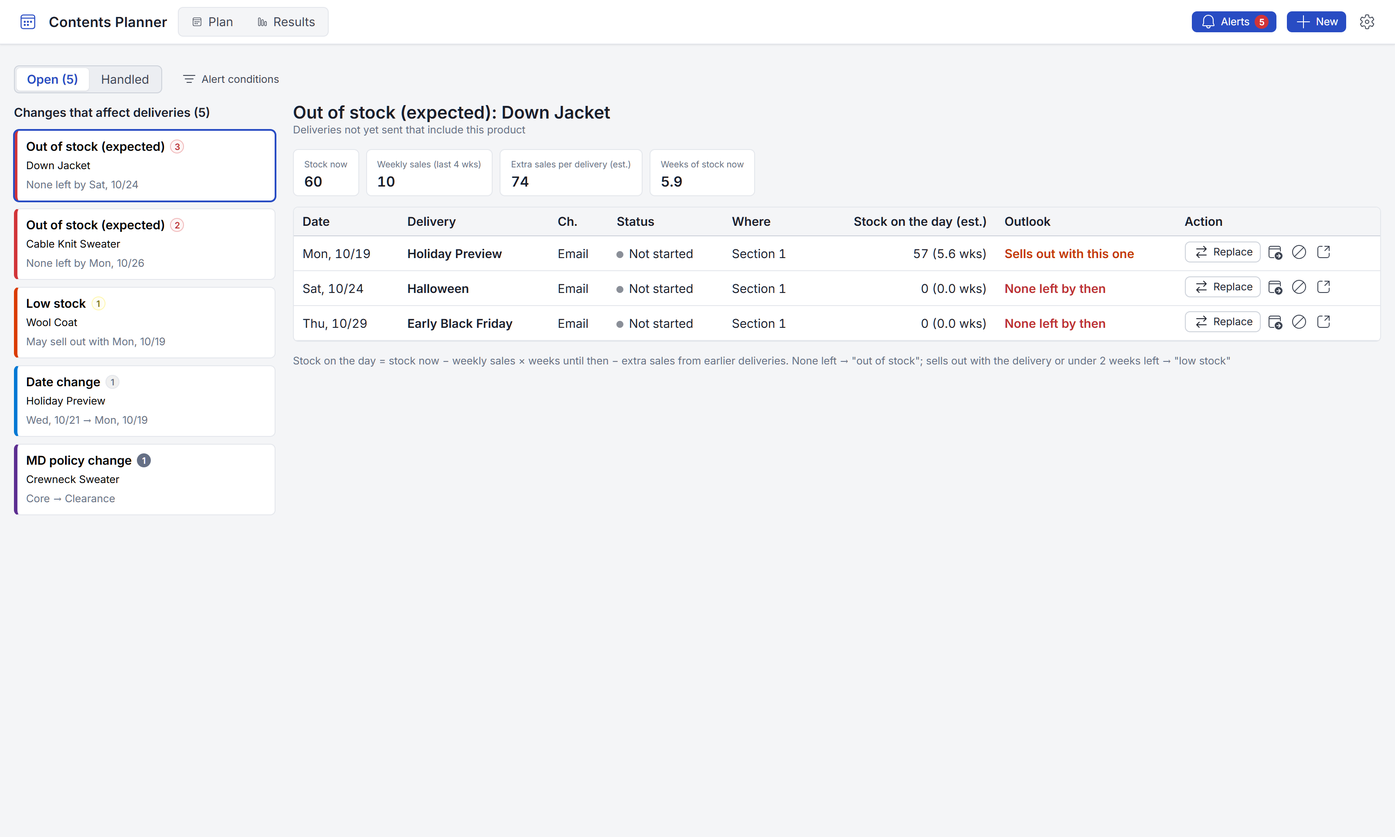
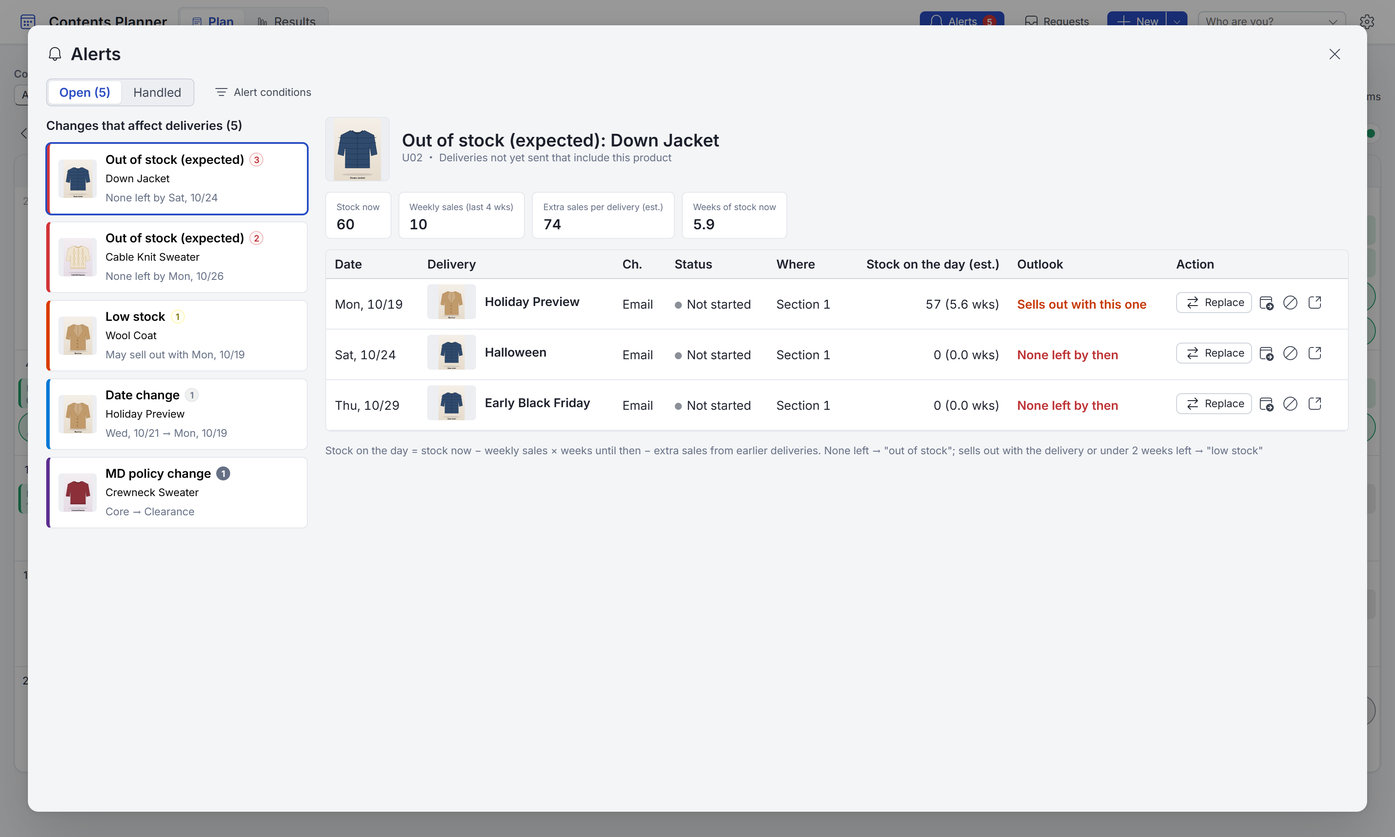
feat: アラートに商品の画像・配信のサムネイル・いまの在庫を足し、アラートを面からフロートに
- 左の一覧と右の見出しに商品の画像(見出しには商品コード)。日程の変更は配信の画像
- 影響を受ける配信の表に、サムネイル(マウスを重ねるとプレビュー。計画の一覧と同じ DeliveryThumb)
- 差し替えの候補に「いまの在庫」を足し、差し替える商品といまの在庫を上に出す。載せた回数の行を短く
- アラートを、ヘッダーから開くフロートに(src/AlertsFloat.tsx)。閉じれば見ていた画面のまま。開いた配信カードは上に重なる
- 撮影の手順を合わせる(差し替えのパネルの閉じ方、フロートの閉じ方)。FEATURES・FLOWS・BACKLOG(X21)を更新

diff --git a/src/AlertsPage.tsx b/src/AlertsPage.tsx
@@ -2,6 +2,9 @@ import { useState } from 'react'
 import { Badge, Button, MessageBar, MessageBarBody, Tooltip, makeStyles, mergeClasses, tokens } from '@fluentui/react-components'
 import { ArrowSwapRegular, CalendarArrowRightRegular, FilterRegular, OpenRegular, ProhibitedRegular } from '@fluentui/react-icons'
 import type { Product } from './models/products'
+import type { HeroImage } from './models/heroImages'
+import { DeliveryThumb } from './DataTable'
+import { heroImage, productImage } from './images'
 import type { WeekRow } from './data/weeks'
 import { AlertActionPanel } from './AlertActionPanel'
 import { LOW_STOCK_WEEKS, isLeadStage, type AffectedDelivery, type ChangeAlert, type Placement, type StockAlert, type StockModel } from './alerts'
@@ -22,7 +25,7 @@ const useStyles = makeStyles({
   tdWrap: { padding: '6px 10px', borderBottom: `1px solid ${tokens.colorNeutralStroke2}`, whiteSpace: 'normal', overflowWrap: 'anywhere', minWidth: '200px' },
   root: { display: 'grid', gridTemplateColumns: '300px minmax(0, 1fr)', columnGap: '20px', alignItems: 'start' },
   // 左: アラートの一覧
-  list: { display: 'grid', rowGap: '8px', position: 'sticky', top: '72px' },
+  list: { display: 'grid', rowGap: '8px', position: 'sticky', top: 0 },
   listHead: { fontSize: tokens.fontSizeBase300, fontWeight: tokens.fontWeightSemibold, marginBottom: '2px' },
   item: {
     display: 'grid',
@@ -38,6 +41,16 @@ const useStyles = makeStyles({
     ':hover': { backgroundColor: tokens.colorNeutralBackground1Hover },
   },
   itemOn: { outline: `2px solid ${tokens.colorBrandStroke1}`, outlineOffset: '-1px' },
+  // 一覧の項目: 左に商品(日程の変更は配信)の画像、右に文字
+  itemRow: { display: 'grid', gridTemplateColumns: '44px minmax(0, 1fr)', columnGap: '10px', alignItems: 'center' },
+  itemText: { display: 'grid', rowGap: '2px', minWidth: 0 },
+  itemImg: { width: '44px', height: '44px', objectFit: 'contain', borderRadius: tokens.borderRadiusSmall, backgroundColor: tokens.colorNeutralBackground3 },
+  itemNoImg: { width: '44px', height: '44px', borderRadius: tokens.borderRadiusSmall, backgroundColor: tokens.colorNeutralBackground2 },
+  // 右の見出し: 商品の画像と、名前
+  headRow: { display: 'flex', alignItems: 'center', columnGap: '14px' },
+  headImg: { width: '72px', height: '72px', flexShrink: 0, objectFit: 'contain', borderRadius: tokens.borderRadiusMedium, backgroundColor: tokens.colorNeutralBackground3, border: `1px solid ${tokens.colorNeutralStroke2}` },
+  // 表の配信の列: サムネイル(マウスを重ねるとプレビュー)と名前
+  delivery: { display: 'inline-flex', alignItems: 'center', columnGap: '10px' },
   itemKind: { display: 'flex', alignItems: 'center', columnGap: '6px', fontWeight: tokens.fontWeightSemibold, fontSize: tokens.fontSizeBase300 },
   itemName: { fontSize: tokens.fontSizeBase200, overflow: 'hidden', textOverflow: 'ellipsis', whiteSpace: 'nowrap' },
   itemSub: { fontSize: tokens.fontSizeBase200, color: tokens.colorNeutralForeground3 },
@@ -77,6 +90,9 @@ interface Props {
   /** すべての配信(対応の記録で、配信名を出すため) */
   cards: DeliveryCard[]
   products: Product[]
+  /** 配信のサムネイル(マウスを重ねるとプレビュー)に使う */
+  heroes: HeroImage[]
+  cardProducts: Map<string, string[]>
   placements: Map<string, Placement[]>
   model: StockModel
   weeks: WeekRow[]
@@ -94,7 +110,7 @@ const KIND_COLOR = { outOfStock: tokens.colorPaletteRedBorderActive, lowStock: t
  * アラートの画面(ワイヤーフレーム 12)。左に、配信に影響する変更(いまは在庫切れ・在庫僅少)の一覧。
  * 選ぶと、右に、影響を受ける、まだ送っていない配信と、商品が載っている場所、配信日の在庫の見込みを出す
  */
-export function AlertsPage({ onOpenAlertCard, alerts, changeAlerts, onResolve, settings, owners, logs, cards, products, placements, model, weeks, onOpenCard, onChanged }: Props) {
+export function AlertsPage({ onOpenAlertCard, alerts, changeAlerts, onResolve, settings, owners, logs, cards, products, heroes, cardProducts, placements, model, weeks, onOpenCard, onChanged }: Props) {
   const styles = useStyles()
   const t = useT()
   const [selectedId, setSelectedId] = useState<string | null>(null)
@@ -107,6 +123,14 @@ export function AlertsPage({ onOpenAlertCard, alerts, changeAlerts, onResolve, s
   const [done, setDone] = useState<string | null>(null)
   const actionCard = selected?.deliveries.find((d) => d.card.id === action?.cardId)?.card
 
+  // 一覧の小さな画像(なければ灰色の枠)
+  const thumb = (src?: string) => (src ? <img className={styles.itemImg} src={src} alt="" draggable={false} /> : <span className={styles.itemNoImg} />)
+  // 日程の変更の画像: その配信のメイン画像、なければ先頭の商品
+  const changeCardImage = (cardId?: string) => {
+    const c = cards.find((x) => x.id === cardId)
+    if (!c) return undefined
+    return heroImage(heroes.find((h) => h.id === c.hero_image_id)) ?? productImage(products.find((p) => p.id === (cardProducts.get(c.id) ?? [])[0]))
+  }
   const kindLabel = (a: StockAlert) => (a.kind === 'outOfStock' ? t('在庫切れの見込み', 'Out of stock (expected)') : t('在庫僅少', 'Low stock'))
   const dateText = (iso?: string) => (iso ? new Date(iso).toLocaleDateString(locale(), { month: 'numeric', day: 'numeric', weekday: 'short' }) : '')
   const n = (v: number) => Math.round(v).toLocaleString(locale())
@@ -228,14 +252,19 @@ export function AlertsPage({ onOpenAlertCard, alerts, changeAlerts, onResolve, s
         <div className={styles.listHead}>{t(`配信に影響する変更(${alerts.length + changeAlerts.length})`, `Changes that affect deliveries (${alerts.length + changeAlerts.length})`)}</div>
         {alerts.map((a) => (
           <button key={a.id} type="button" className={mergeClasses(styles.item, a.id === selected?.id && styles.itemOn)} style={{ borderLeftColor: KIND_COLOR[a.kind] }} onClick={() => { setSelectedId(a.id); setAction(null); setDone(null) }}>
-            <span className={styles.itemKind}>
-              {kindLabel(a)}
-              <Badge size="small" appearance="tint" color={a.kind === 'outOfStock' ? 'danger' : 'warning'}>
-                {t(`${a.deliveries.length} 本`, `${a.deliveries.length}`)}
-              </Badge>
+            <span className={styles.itemRow}>
+              {thumb(productImage(a.product))}
+              <span className={styles.itemText}>
+                <span className={styles.itemKind}>
+                  {kindLabel(a)}
+                  <Badge size="small" appearance="tint" color={a.kind === 'outOfStock' ? 'danger' : 'warning'}>
+                    {t(`${a.deliveries.length} 本`, `${a.deliveries.length}`)}
+                  </Badge>
+                </span>
+                <span className={styles.itemName} title={a.product.name}>{a.product.name}</span>
+                <span className={styles.itemSub}>{summary(a)}</span>
+              </span>
             </span>
-            <span className={styles.itemName} title={a.product.name}>{a.product.name}</span>
-            <span className={styles.itemSub}>{summary(a)}</span>
           </button>
         ))}
         {changeAlerts.map((a) => {
@@ -243,6 +272,9 @@ export function AlertsPage({ onOpenAlertCard, alerts, changeAlerts, onResolve, s
           const when = a.changes.find((c) => c.field === 'scheduled_at')
           return (
             <button key={a.id} type="button" className={mergeClasses(styles.item, a.id === selectedChange?.id && styles.itemOn)} style={{ borderLeftColor: KIND_COLOR[a.kind] }} onClick={() => { setSelectedId(a.id); setAction(null); setDone(null) }}>
+              <span className={styles.itemRow}>
+              {thumb(a.product ? productImage(a.product) : changeCardImage(a.card?.id))}
+              <span className={styles.itemText}>
               <span className={styles.itemKind}>
                 {a.kind === 'policyChanged' ? t('MD 方針の変更', 'MD policy change') : t('日程の変更', 'Date change')}
                 <Badge size="small" appearance="tint" color={a.kind === 'policyChanged' ? 'important' : 'informative'}>
@@ -257,6 +289,8 @@ export function AlertsPage({ onOpenAlertCard, alerts, changeAlerts, onResolve, s
                     ? `${dateText(when.before)} → ${dateText(when.after)}`
                     : t('方針・期間の変更', 'Policy / period changed')}
               </span>
+              </span>
+              </span>
             </button>
           )
         })}
@@ -266,6 +300,8 @@ export function AlertsPage({ onOpenAlertCard, alerts, changeAlerts, onResolve, s
           key={selectedChange.id}
           alert={selectedChange}
           products={products}
+          heroes={heroes}
+          cardProducts={cardProducts}
           placements={placements}
           model={model}
           weeks={weeks}
@@ -277,9 +313,14 @@ export function AlertsPage({ onOpenAlertCard, alerts, changeAlerts, onResolve, s
 
       {selected && (
         <div className={styles.detail}>
-          <div>
-            <h2 className={styles.title}>{`${kindLabel(selected)}: ${selected.product.name}`}</h2>
-            <div className={styles.sub}>{t('この商品を載せている、まだ送っていない配信', 'Deliveries not yet sent that include this product')}</div>
+          <div className={styles.headRow}>
+            {productImage(selected.product) && <img className={styles.headImg} src={productImage(selected.product)} alt="" draggable={false} />}
+            <div>
+              <h2 className={styles.title}>{`${kindLabel(selected)}: ${selected.product.name}`}</h2>
+              <div className={styles.sub}>
+                {[selected.product.product_code, t('この商品を載せている、まだ送っていない配信', 'Deliveries not yet sent that include this product')].filter(Boolean).join(' ・ ')}
+              </div>
+            </div>
           </div>
           <div className={styles.facts}>
             <div className={styles.fact}>
@@ -318,7 +359,12 @@ export function AlertsPage({ onOpenAlertCard, alerts, changeAlerts, onResolve, s
                 {selected.deliveries.map((d) => (
                   <tr key={d.card.id}>
                     <td className={styles.td}>{dateText(d.card.scheduled_at)}</td>
-                    <td className={mergeClasses(styles.td, styles.name)}>{d.card.name}</td>
+<td className={mergeClasses(styles.td, styles.name)}>
+                      <span className={styles.delivery}>
+                        <DeliveryThumb card={d.card} productIds={cardProducts.get(d.card.id) ?? []} products={products} heroes={heroes} />
+                        {d.card.name}
+                      </span>
+                    </td>
                     <td className={styles.td}>{d.card.channel === CHANNEL_PUSH ? t('アプリ', 'App') : t('メール', 'Email')}</td>
                     <td className={styles.td}>
                       <span className={styles.dot} style={{ backgroundColor: statusColor(d.card.status ?? 'not_started') }} />

diff --git a/src/ChangeAlertDetail.tsx b/src/ChangeAlertDetail.tsx
@@ -2,6 +2,9 @@ import { useState } from 'react'
 import { Button, Field, MessageBar, MessageBarBody, Spinner, Textarea, Tooltip, makeStyles, mergeClasses, tokens } from '@fluentui/react-components'
 import { ArrowSwapRegular, CalendarArrowRightRegular, CheckmarkCircleRegular, OpenRegular, ProhibitedRegular } from '@fluentui/react-icons'
 import type { Product } from './models/products'
+import type { HeroImage } from './models/heroImages'
+import { DeliveryThumb } from './DataTable'
+import { productImage } from './images'
 import type { WeekRow } from './data/weeks'
 import { AlertActionPanel } from './AlertActionPanel'
 import { isLeadStage, type ChangeAlert, type Placement, type StockModel } from './alerts'
@@ -24,6 +27,10 @@ const useStyles = makeStyles({
   th: { textAlign: 'left', padding: '6px 10px', borderBottom: `1px solid ${tokens.colorNeutralStroke1}`, backgroundColor: tokens.colorNeutralBackground2, fontWeight: tokens.fontWeightSemibold, whiteSpace: 'nowrap' },
   td: { padding: '6px 10px', borderBottom: `1px solid ${tokens.colorNeutralStroke2}`, whiteSpace: 'nowrap' },
   name: { fontWeight: tokens.fontWeightSemibold },
+  // 見出し: 商品の画像と名前 / 表の配信の列: サムネイル(マウスを重ねるとプレビュー)と名前
+  headRow: { display: 'flex', alignItems: 'center', columnGap: '14px' },
+  headImg: { width: '72px', height: '72px', flexShrink: 0, objectFit: 'contain', borderRadius: tokens.borderRadiusMedium, backgroundColor: tokens.colorNeutralBackground3, border: `1px solid ${tokens.colorNeutralStroke2}` },
+  delivery: { display: 'inline-flex', alignItems: 'center', columnGap: '10px' },
   dot: { display: 'inline-block', width: '8px', height: '8px', borderRadius: '50%', marginRight: '6px' },
   warn: { color: tokens.colorPaletteDarkOrangeForeground1, fontWeight: tokens.fontWeightSemibold },
   actions: { display: 'inline-flex', columnGap: '4px' },
@@ -35,6 +42,8 @@ const useStyles = makeStyles({
 interface Props {
   alert: ChangeAlert
   products: Product[]
+  heroes: HeroImage[]
+  cardProducts: Map<string, string[]>
   placements: Map<string, Placement[]>
   model: StockModel
   weeks: WeekRow[]
@@ -48,7 +57,7 @@ interface Props {
  * 変更のアラート(MD 方針の変更・日程の変更)の詳しい中身。変更前と変更後、影響を受ける配信と、配信ごとの対応、対応済みにする。
  * 在庫のアラートは、在庫が持つようになれば消えるが、変更のアラートは、確かめたことを人が記録する(対応済み)
  */
-export function ChangeAlertDetail({ alert, products, placements, model, weeks, onOpenCard, onChanged, onResolve }: Props) {
+export function ChangeAlertDetail({ alert, products, heroes, cardProducts, placements, model, weeks, onOpenCard, onChanged, onResolve }: Props) {
   const styles = useStyles()
   const t = useT()
   const [action, setAction] = useState<{ mode: 'replace' | 'postpone' | 'cancel'; cardId: string } | null>(null)
@@ -85,6 +94,8 @@ export function ChangeAlertDetail({ alert, products, placements, model, weeks, o
 
   return (
     <div className={styles.detail}>
+      <div className={styles.headRow}>
+        {alert.product && productImage(alert.product) && <img className={styles.headImg} src={productImage(alert.product)} alt="" draggable={false} />}
       <div>
         <h2 className={styles.title}>
           {policy ? t(`MD 方針の変更: ${alert.product?.name}`, `MD policy change: ${alert.product?.name}`) : t(`日程の変更: ${alert.card?.name}`, `Date change: ${alert.card?.name}`)}
@@ -93,6 +104,7 @@ export function ChangeAlertDetail({ alert, products, placements, model, weeks, o
           {t(`${dateTime(alert.changedAt)} に変更`, `Changed ${dateTime(alert.changedAt)}`)}
           {alert.actor ? t(`(${alert.actor})`, ` by ${alert.actor}`) : ''}
         </div>
+      </div>
       </div>
 
       <div className={styles.changes}>
@@ -133,7 +145,12 @@ export function ChangeAlertDetail({ alert, products, placements, model, weeks, o
               {alert.deliveries.map((d) => (
                 <tr key={d.card.id}>
                   <td className={styles.td}>{dateTime(d.card.scheduled_at)}</td>
-                  <td className={mergeClasses(styles.td, styles.name)}>{d.card.name}</td>
+                  <td className={mergeClasses(styles.td, styles.name)}>
+                    <span className={styles.delivery}>
+                      <DeliveryThumb card={d.card} productIds={cardProducts.get(d.card.id) ?? []} products={products} heroes={heroes} />
+                      {d.card.name}
+                    </span>
+                  </td>
                   <td className={styles.td}>{d.card.channel === CHANNEL_PUSH ? t('アプリ', 'App') : t('メール', 'Email')}</td>
                   <td className={styles.td}>
                     <span className={styles.dot} style={{ backgroundColor: statusColor(d.card.status ?? 'not_started') }} />

diff --git a/src/AlertActionPanel.tsx b/src/AlertActionPanel.tsx
@@ -19,6 +19,9 @@ const useStyles = makeStyles({
   title: { margin: 0, fontSize: tokens.fontSizeBase400, fontWeight: tokens.fontWeightSemibold },
   close: { marginLeft: 'auto' },
   sub: { color: tokens.colorNeutralForeground3, fontSize: tokens.fontSizeBase200 },
+  // 差し替えられる側の商品(画像・名前・いまの在庫)
+  replacing: { display: 'inline-flex', alignItems: 'center', columnGap: '8px', fontSize: tokens.fontSizeBase300, fontWeight: tokens.fontWeightSemibold },
+  replacingImg: { width: '32px', height: '32px', objectFit: 'contain', borderRadius: tokens.borderRadiusSmall, backgroundColor: tokens.colorNeutralBackground3 },
   picks: { display: 'grid', gridTemplateColumns: 'repeat(3, minmax(0, 1fr))', columnGap: '12px', rowGap: '12px' },
   pick: { display: 'grid', gridTemplateColumns: '84px minmax(0, 1fr)', columnGap: '10px', padding: '8px', borderRadius: tokens.borderRadiusMedium, border: `1px solid ${tokens.colorNeutralStroke2}` },
   img: { width: '84px', height: '84px', objectFit: 'contain', borderRadius: tokens.borderRadiusSmall, backgroundColor: tokens.colorNeutralBackground3 },
@@ -46,6 +49,8 @@ interface Props {
 }
 
 const STATUS_APPROVED = 'approved'
+/** 在庫の数の表記(なければ 0) */
+const num = (v?: number) => Math.round(v ?? 0).toLocaleString()
 const US = 'US'
 const US_MARKET = 'US'
 const JP_MARKET = 'JP'
@@ -153,6 +158,13 @@ export function AlertActionPanel({ mode, card, product, why, products, placement
 
       {mode === 'replace' && (
         <>
+          {/* 差し替えられる側(いま載っている商品)の在庫。候補と比べられるように */}
+          {product && (
+            <span className={styles.replacing}>
+              {productImage(product) && <img className={styles.replacingImg} src={productImage(product)} alt="" draggable={false} />}
+              {t(`差し替える商品: ${product.name} ・ いまの在庫 ${num(product.stock)}`, `Replacing: ${product.name} · Stock now ${num(product.stock)}`)}
+            </span>
+          )}
           <span className={styles.sub}>
             <AiIcon size={14} /> {t(`AI の提案(在庫のある、同じカテゴリの商品。配信日に ${LOW_STOCK_WEEKS} 週分以上ある見込みのもの)`, `AI suggestions (in stock, same category, ${LOW_STOCK_WEEKS}+ weeks on the day)`)}
           </span>
@@ -168,10 +180,12 @@ export function AlertActionPanel({ mode, card, product, why, products, placement
                   <div className={styles.pickBody}>
                     <span className={styles.pickName} title={c.product.name}>{c.product.name}</span>
                     <span>{priceText(c.product.price, market)}</span>
+                    {/* いまの在庫の数と、配信日に何週分残るかを、同じ行で読めるように */}
                     <span>
-                      {c.weeksLeft !== undefined ? t(`配信日に在庫 ${c.weeksLeft.toFixed(1)} 週分`, `${c.weeksLeft.toFixed(1)} wks of stock on the day`) : t(`在庫 ${c.product.stock ?? 0}`, `Stock ${c.product.stock ?? 0}`)}
+                      {t(`いまの在庫 ${num(c.product.stock)}`, `Stock now ${num(c.product.stock)}`)}
+                      {c.weeksLeft !== undefined && t(` ・ 配信日に ${c.weeksLeft.toFixed(1)} 週分`, ` · ${c.weeksLeft.toFixed(1)} wks on the day`)}
                     </span>
-                    <span>{t(`今週 ${c.thisWeek} 回・前週 ${c.lastWeek} 回 載せている`, `Featured ${c.thisWeek} this week, ${c.lastWeek} last week`)}</span>
+                    <span className={styles.sub}>{t(`載せた回数 今週 ${c.thisWeek} ・ 前週 ${c.lastWeek}`, `Featured: this wk ${c.thisWeek} · last wk ${c.lastWeek}`)}</span>
                     {why2 && <span className={styles.pickReason}>{why2}</span>}
                     <Button className={styles.pickUse} size="small" appearance="primary" disabled={busy || rows.length === 0} onClick={() => void use(c.product)}>
                       {t('使う', 'Use')}

diff --git a/src/App.tsx b/src/App.tsx
@@ -67,6 +67,7 @@ import { ListView } from './ListView'
 import { ResultsPage, type ResultsDataActions } from './ResultsPage'
 import { AiIcon } from './AiMark'
 import { AlertsPage } from './AlertsPage'
+import { AlertsFloat } from './AlertsFloat'
 import { useChangeAlerts, useStockAlerts } from './alerts'
 import { buildCardAlerts, topKind, type CardAlertKind } from './cardAlerts'
 import { filterChangeAlerts, filterStockAlerts, useAlertSettings } from './alertSettings'
@@ -482,6 +483,8 @@ function App() {
     setFocusProduct(productId)
     setSelectedId(cardId)
   }
+  // アラートは、面ではなく、上に重ねて開くフロート(閉じれば、見ていた画面に戻る)
+  const [alertsOpen, setAlertsOpen] = useState(false)
   const showFaceRaw = (p: 'calendar' | 'results' | 'alerts') => {
     setResultDetail(null)
     // 「比べる」は結果の面だけ。計画の面に戻るときは、月にする
@@ -990,10 +993,10 @@ function App() {
         {/* アラート: 配信に影響する変更(いまは在庫)。件数は、どの画面からも見えるように、ヘッダーに出す */}
         <Tooltip content={t('配信に影響する変更(在庫切れ・在庫僅少・MD 方針の変更・日程の変更)', 'Changes that affect deliveries (stock, MD policy, dates)')} relationship="description">
           <Button
-            appearance={page === 'alerts' ? 'primary' : 'subtle'}
+            appearance={alertsOpen ? 'primary' : 'subtle'}
             size="small"
             icon={<AlertRegular />}
-            onClick={() => showFace(page === 'alerts' ? 'calendar' : 'alerts')}
+            onClick={() => setAlertsOpen(true)}
           >
             {t('アラート', 'Alerts')}
             {alertCount > 0 && (
@@ -1309,9 +1312,7 @@ function App() {
             </>
             )}
             {/* 日付から作るときは、その日の 10:00 を配信日時にする(過去の日付でも作れる) */}
-            {page === 'alerts' ? (
-              <AlertsPage onOpenAlertCard={openFromAlert} alerts={alerts} changeAlerts={changeAlerts} onResolve={(a, note) => changeState.resolve(a, myName(), note)} settings={alertSettings} owners={owners} logs={changeState.logs} cards={cards} products={products} placements={alertState.placements} model={alertState.model} weeks={weeks} onOpenCard={setSelectedId} onChanged={load} />
-            ) : page === 'results' ? (
+            {page === 'results' ? (
               <ResultsPage
                 cards={filtered}
                 products={products}
@@ -1405,6 +1406,10 @@ function App() {
           </>
         )}
       </div>
+      {/* アラート(フロート)。配信カードより先に置く(ここから開いた配信カードが、上に重なるように) */}
+      <AlertsFloat open={alertsOpen} onClose={() => setAlertsOpen(false)}>
+        <AlertsPage onOpenAlertCard={openFromAlert} alerts={alerts} changeAlerts={changeAlerts} onResolve={(a, note) => changeState.resolve(a, myName(), note)} settings={alertSettings} owners={owners} logs={changeState.logs} cards={cards} products={products} heroes={heroes} cardProducts={cardProducts} placements={alertState.placements} model={alertState.model} weeks={weeks} onOpenCard={setSelectedId} onChanged={load} />
+      </AlertsFloat>
       {(selected || creating) && (
         <CardDetail
           key={selected?.id ?? 'new'}

diff --git a/src/AlertsFloat.tsx b/src/AlertsFloat.tsx
@@ -1,0 +1,39 @@
+import type { ReactNode } from 'react'
+import { Button, Dialog, DialogSurface, makeStyles, tokens } from '@fluentui/react-components'
+import { AlertRegular, DismissRegular } from '@fluentui/react-icons'
+import { useT } from './i18n'
+
+const useStyles = makeStyles({
+  // 配信カード・詳しい結果と同じ、全画面に近いフロート
+  surface: { width: 'min(1640px, 96vw)', maxWidth: 'none', height: '94vh', maxHeight: '94vh', padding: '16px 20px', overflowY: 'auto', backgroundColor: tokens.colorNeutralBackground2 },
+  head: { display: 'flex', alignItems: 'center', columnGap: '8px', marginBottom: '12px' },
+  title: { margin: 0, fontSize: tokens.fontSizeBase500, fontWeight: tokens.fontWeightSemibold },
+  close: { marginLeft: 'auto' },
+})
+
+interface Props {
+  open: boolean
+  onClose: () => void
+  children: ReactNode
+}
+
+/**
+ * アラートのフロート。見ていた計画・結果の画面の上に重ねて開き、閉じれば元の場所(期間・見せ方・絞り込み)に戻る(PRINCIPLES 1-1)。
+ * ここから開いた配信カードは、さらに上に重なり、閉じるとこのフロートに戻る
+ */
+export function AlertsFloat({ open, onClose, children }: Props) {
+  const s = useStyles()
+  const t = useT()
+  return (
+    <Dialog open={open} onOpenChange={(_, d) => !d.open && onClose()}>
+      <DialogSurface className={s.surface} aria-label={t('アラート', 'Alerts')}>
+        <div className={s.head}>
+          <AlertRegular fontSize={20} />
+          <h2 className={s.title}>{t('アラート', 'Alerts')}</h2>
+          <Button className={s.close} appearance="subtle" icon={<DismissRegular />} aria-label={t('アラートを閉じる', 'Close alerts')} onClick={onClose} />
+        </div>
+        {children}
+      </DialogSurface>
+    </Dialog>
+  )
+}

diff --git a/docs/FEATURES.md b/docs/FEATURES.md
@@ -239,8 +239,8 @@
 ### 5.15 アラート
 - **在庫切れの見込み・在庫僅少**: まだ送っていない配信に載っている商品について、配信日の在庫を、直近 4 週の販売の速さと、それより前の配信で上乗せされる販売から見込む。配信日に在庫がなくなる見込み、または何週分を切る見込みなら知らせる。
 - **MD 方針の変更・日程の変更**: 商品の販売方針・位置づけ・販促の期間、配信日時が変わったら、変更の前と後を知らせる。
-- **アラートの画面**: 左に一覧、右に影響を受ける配信(日付・配信・チャネル・状態・載っている場所・配信日の在庫の見込み)。
-- **対応**: 配信ごとに、**差し替え**(AI が、配信日に在庫が見込める同じカテゴリの商品を 3 つ提案)、**開く**(問題の商品を選んだ状態で配信カードを開く)、**延期**、**取りやめ**。変更の理由は記録に残り、確定・承認済みの配信はレビューに戻る。変更のアラートは「対応済み」にできる。
+- **アラートのフロート**: ヘッダーの「アラート」で、いまの画面の上に重ねて開く(閉じれば、見ていた期間・見せ方・絞り込みのまま)。左に一覧(商品の画像つき。日程の変更は配信の画像)、右に、商品の画像・商品コードと、影響を受ける配信(日付・配信のサムネイル(マウスを重ねるとプレビュー)・チャネル・状態・載っている場所・配信日の在庫の見込み)。ここから開いた配信カードは、さらに上に重なり、閉じるとアラートに戻る。
+- **対応**: 配信ごとに、**差し替え**(差し替える商品といまの在庫を上に出し、AI が、配信日に在庫が見込める同じカテゴリの商品を 3 つ提案。候補ごとに、いまの在庫・配信日に何週分・今週と前週に載せた回数)、**開く**(問題の商品を選んだ状態で配信カードを開く)、**延期**、**取りやめ**。変更の理由は記録に残り、確定・承認済みの配信はレビューに戻る。変更のアラートは「対応済み」にできる。
 - **対応の記録**: 誰が・いつ・どう対応したか。
 - **アラートの条件**: 在庫僅少にする週数(1〜8 週分)・出す種類・対象の種別・担当。人ごとに(ブラウザごとに)覚え、ヘッダーの件数にも効く。
 - 配信カードの「この配信のアラート」の帯、商品情報とカレンダーの印でも分かる。

diff --git a/docs/BACKLOG.md b/docs/BACKLOG.md
@@ -151,6 +151,7 @@
 | X18 | ✅ | コンテンツ生成のタブが狭い幅で横にスクロールする(FLOWS の F9。2026-10-17)。タブの列が幅に収まらなければ番号(①〜⑥)だけにし、名前はマウスを重ねると出す(`ContentPane` の `compact`)。英語の「6. Production notes」「6. Timing & audience」は「6. Notes」「6. Timing」に短く | — | なし |
 | X19 | ✅ | 週ごとの振り返りのメモと、結果の面の「前週」(FLOWS の C-7。2026-10-17)。表 weeks に列 retro。結果の面の週の表示の上に「この週の振り返り」(`src/WeekRetro.tsx`。その場で保存。週の行がなければ下書きの行を作る)。計画の面の週の表示に「前週の振り返り」と「前週の結果を見る」。ツールバー(結果の面)に「前週」 | — | なし |
 | X20 | ✅ | 置き場所の整理(FLOWS の C-11。利用者の要望 2026-10-17: 配置とグルーピングが気持ち悪い)。週の状態の印をツールバーから週の帯の左端へ。「まとめて AI で下書き」をヘッダーの「新規作成 ▾」(SplitButton)へ。「あなた」をヘッダー(⚙ の隣)へ。計画・結果の「データ ▾」を ⚙ の「データ」の群へ(結果の操作は `ResultsPage.onDataActions` で受け取る) | — | なし |
+| X21 | ✅ | アラートの見やすさとフロート(利用者の要望 2026-10-17)。一覧と見出しに商品の画像(見出しには商品コードも)、配信の表にサムネイル(マウスを重ねるとプレビュー。`DeliveryThumb`)。差し替えの候補に「いまの在庫」、差し替える商品の在庫も上に。載せた回数の行を短く。アラートを面からフロート(`src/AlertsFloat.tsx`)に。ここから開いた配信カードは上に重なる | — | なし |
 
 (2026-10-12: プレビューは、配信カードのチャネルに合わせて 1 種類だけにした(メールとプッシュの切り替えをやめた)。X6 の前段)
 

diff --git a/docs/FLOWS.md b/docs/FLOWS.md
@@ -118,7 +118,7 @@
 
 | | いまの形 |
 |---|---|
-| 入り口 | ヘッダーの「アラート(件数)」。カレンダー・週の配信の印。配信カードの上の帯 |
+| 入り口 | ヘッダーの「アラート(件数)」で、いまの画面の上にフロートで開く(2026-10-17 に面からフロートに。閉じれば元の場所)。カレンダー・週の配信の印。配信カードの上の帯 |
 | すること | 在庫切れ・在庫僅少・MD 方針の変更・日程の変更。差し替え・延期・取りやめ、対応済みにする |
 | 次への移り方 | アラートの画面で「配信カードを開く」→ 問題の商品を選んだ状態で開く → 閉じるとアラートの画面に戻る。対応済みにすると、残りのいちばん上が選ばれる(4-1 のお手本) |
 | 気になる点 | 大きな問題はない |
